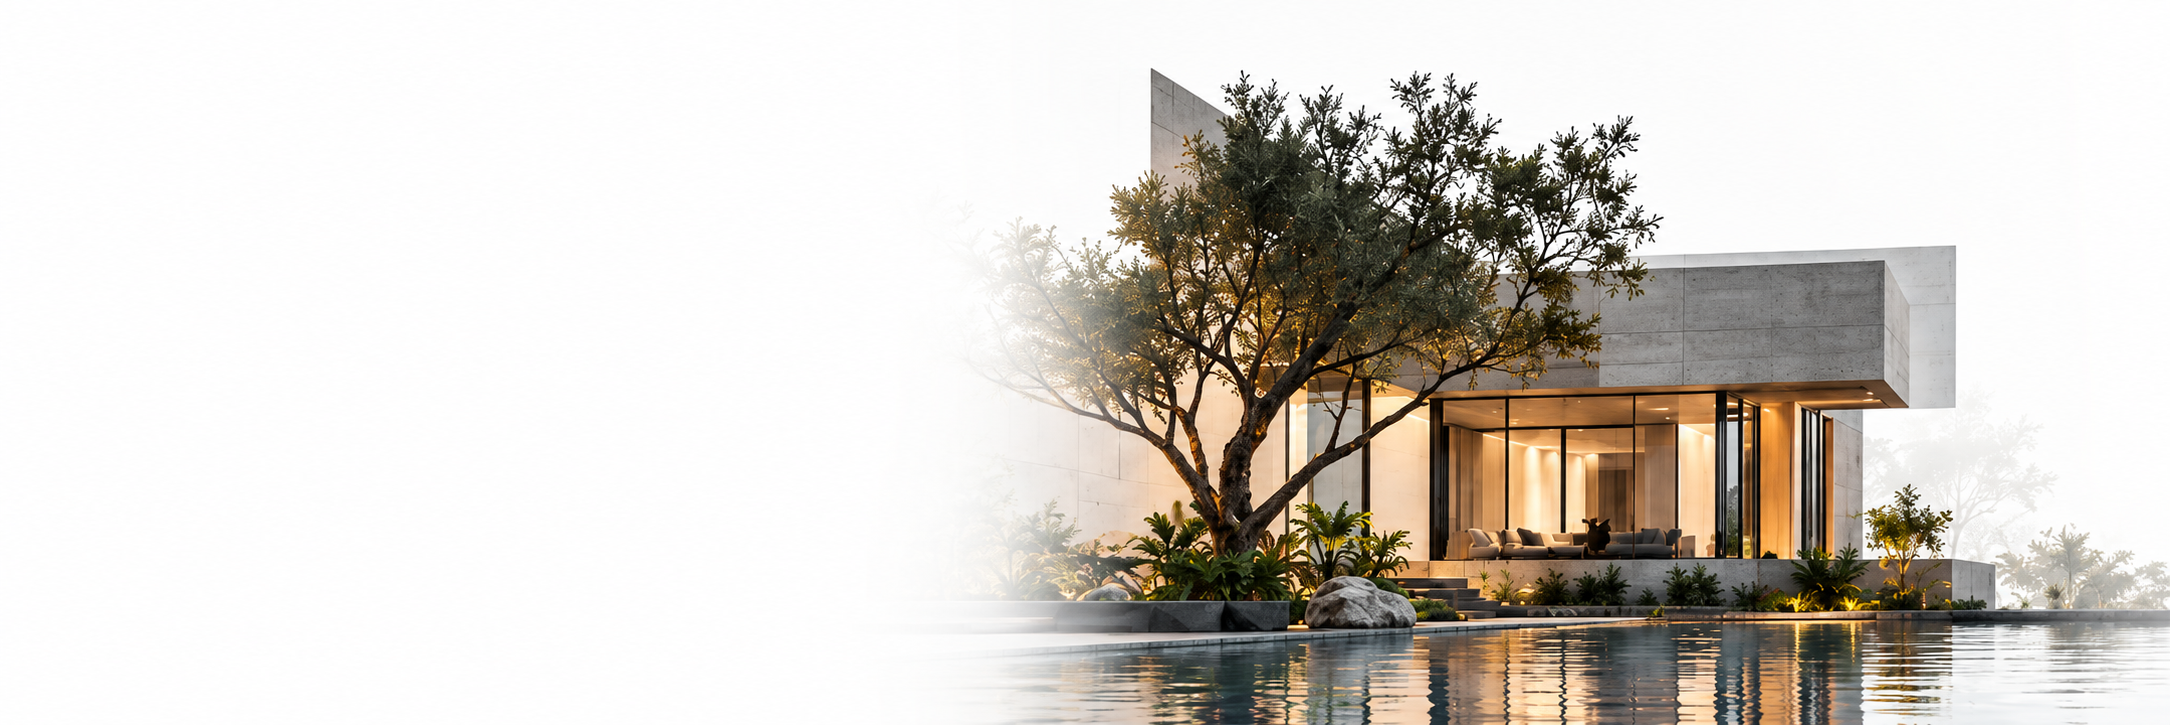
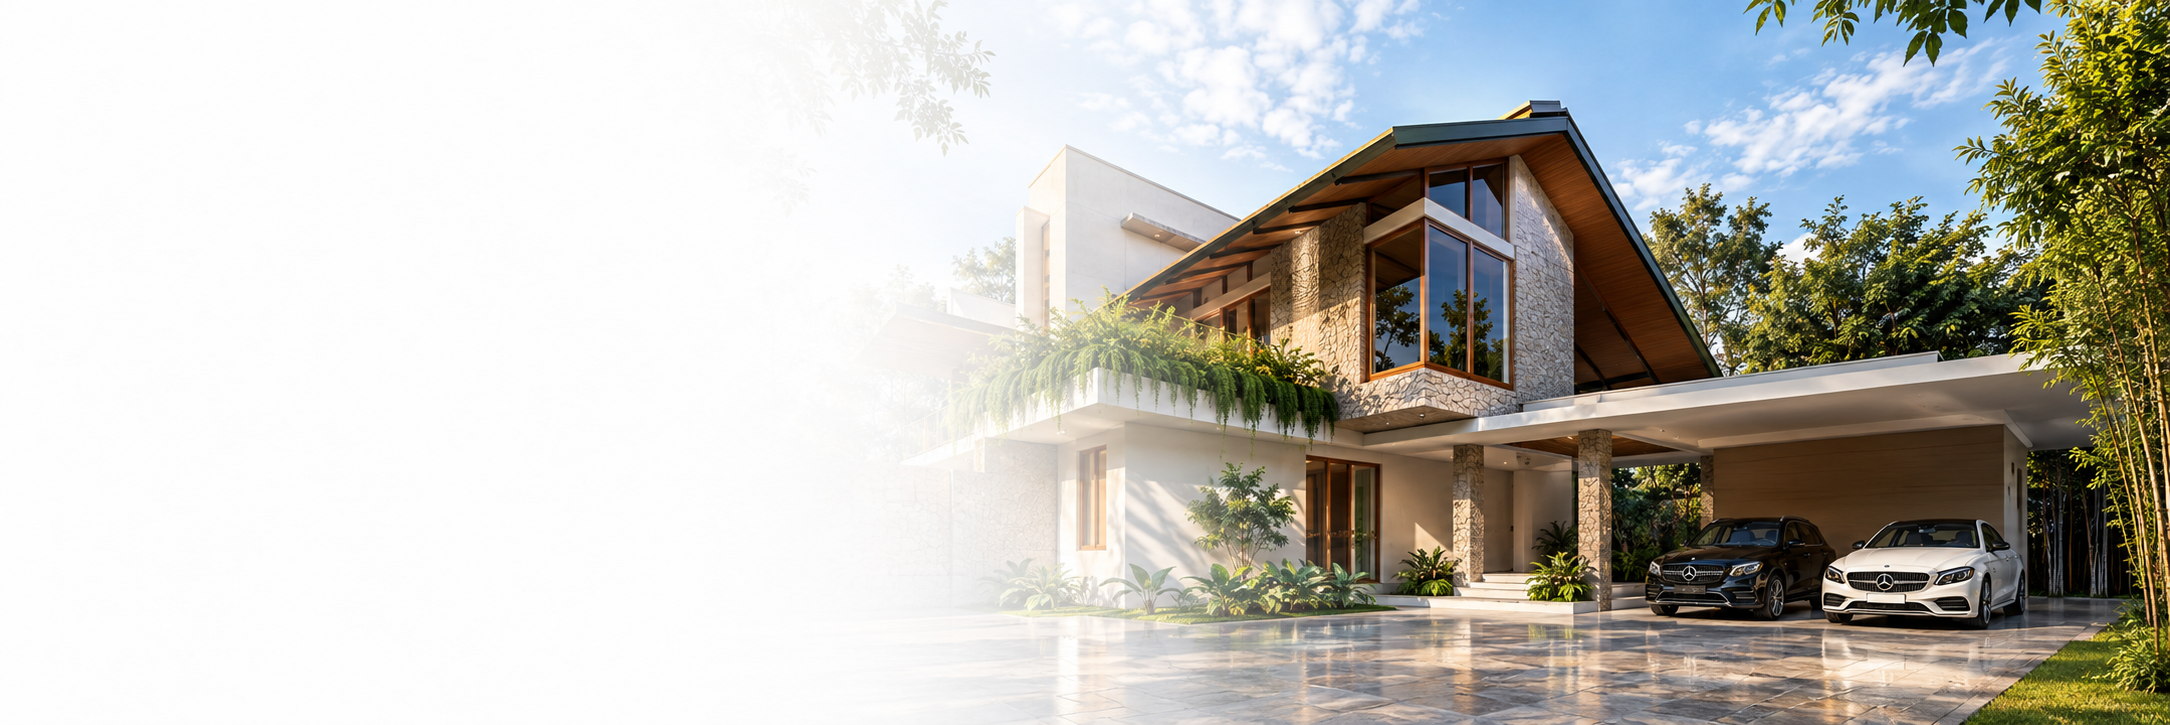
orginalimgadd1

diff --git a/src/pages/About/index.tsx b/src/pages/About/index.tsx
@@ -299,16 +299,16 @@ export const AboutPage: React.FC = () => {
         {/* ========================================================================= */}
         <section className="w-full h-[60vh] sm:h-[75vh] relative overflow-hidden">
           <img
-            src="/photos/pcherp1.png"
+            src="/photos/image1.png"
             alt="TechPlus Architecture Villa"
             className="w-full h-full object-cover object-center"
           />
           
-          <div className="absolute bottom-12 left-6 sm:left-10 lg:left-16 right-6 text-black max-w-4xl">
-            <span className="font-mono text-xs tracking-widest text-black/70 uppercase block mb-2 font-semibold">
+          <div className="absolute bottom-12 left-6 sm:left-10 lg:left-16 right-6 text-white max-w-4xl">
+            <span className="font-mono text-xs tracking-widest text-white/70 uppercase block mb-2 font-semibold ">
               ARCHITECTURE &amp; SPATIAL EXCELLENCE
             </span>
-            <h2 className="font-display text-3xl sm:text-5xl lg:text-6xl font-normal leading-tight text-black">
+            <h2 className="font-display text-3xl sm:text-5xl lg:text-6xl font-normal leading-tight text-white">
               Designing timeless spaces that inspire and endure.
             </h2>
           </div>
